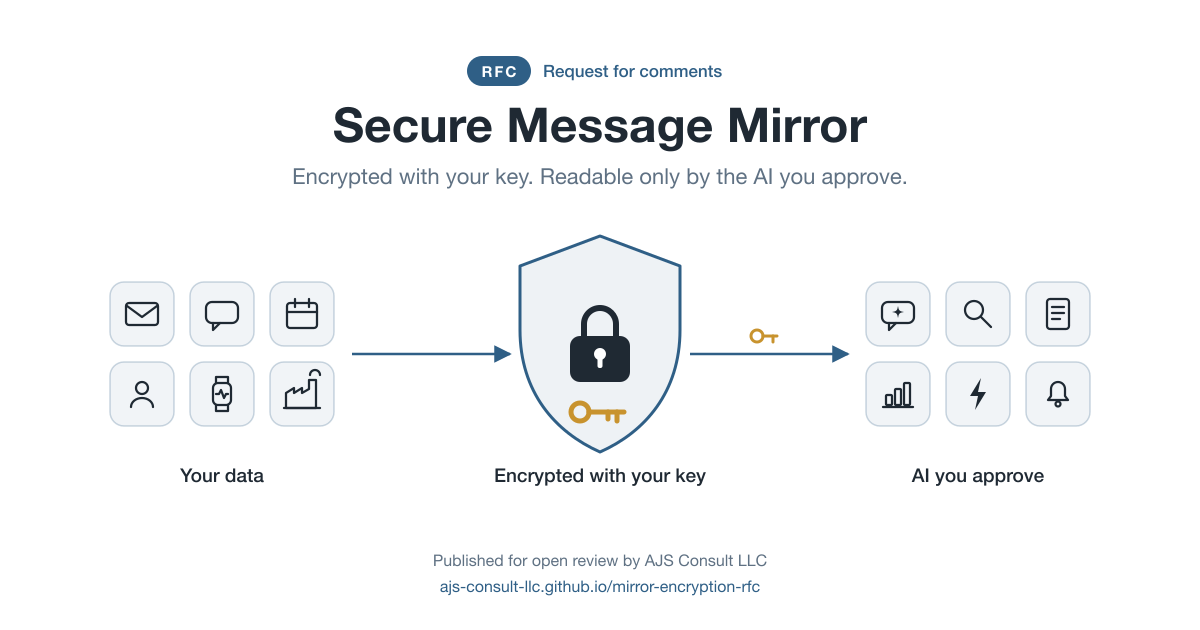
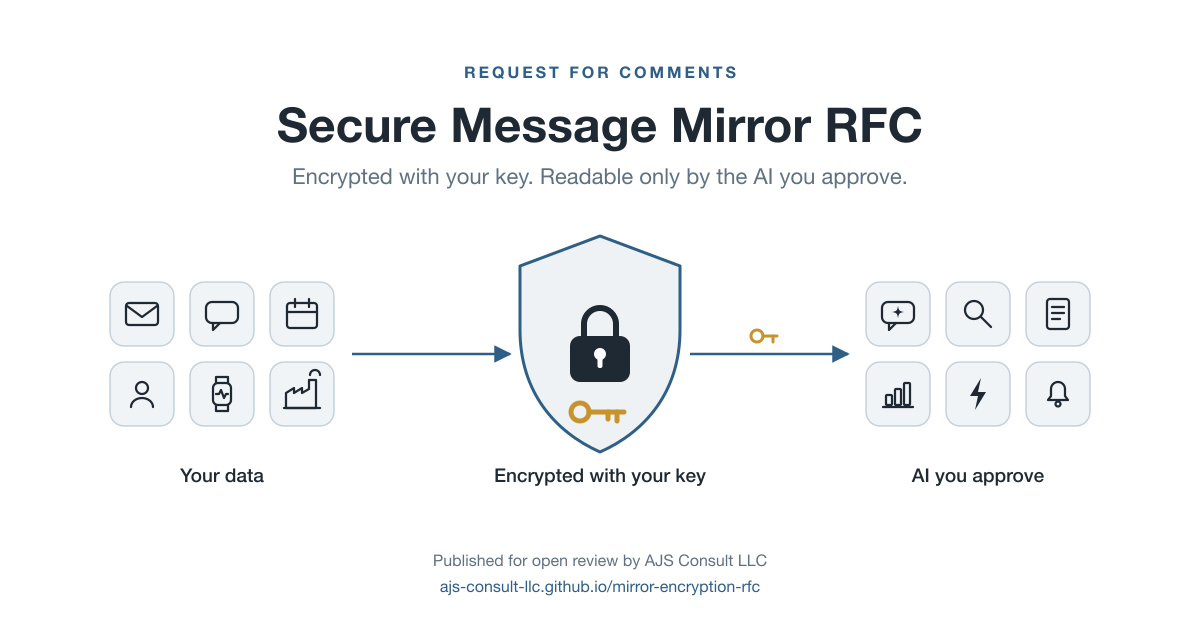
RFC in the titles; the link preview is the white image
The graphic's title is 'Secure Message Mirror RFC' and the form's is 'Mirror
Encryption: Security Architecture (RFC)'. The landing image is the white version,
marked .preview-image, because Quarto sends a page's first image as its preview.

Changed region(s): [[0.2158, 0.0905, 0.7708, 0.2413]]

diff --git a/assets/social/build.py b/assets/social/build.py
@@ -65,17 +65,15 @@ def grid(x0: int, rows: list[list[str]]) -> str:
 def svg() -> str:
     left_x, right_x = 110, 1200 - 110 - (3 * TILE + 2 * GAP)
     left_mid, right_mid = left_x + (3 * TILE + 2 * GAP) // 2, right_x + (3 * TILE + 2 * GAP) // 2
-    return f'''<svg xmlns="http://www.w3.org/2000/svg" width="1200" height="630" viewBox="0 0 1200 630" role="img" aria-label="Secure Message Mirror, a request for comments: your data, encrypted with your key, readable only by the AI you approve">
+    return f'''<svg xmlns="http://www.w3.org/2000/svg" width="1200" height="630" viewBox="0 0 1200 630" role="img" aria-label="Secure Message Mirror RFC, a request for comments: your data, encrypted with your key, readable only by the AI you approve">
   <defs>
     <marker id="arrow" viewBox="0 0 10 10" refX="9" refY="5" markerWidth="7" markerHeight="7" orient="auto">
       <path d="M0 0L10 5L0 10z" fill="{ACCENT}"/>
     </marker>
   </defs>
   <g font-family="{FONT}">
-    <rect x="467" y="56" width="64" height="30" rx="15" fill="{ACCENT}"/>
-    <text x="499" y="77" text-anchor="middle" font-size="15" font-weight="700" letter-spacing="2" fill="#ffffff">RFC</text>
-    <text x="543" y="77" font-size="17" font-weight="600" fill="{ACCENT}">Request for comments</text>
-    <text x="600" y="142" text-anchor="middle" font-size="48" font-weight="700" fill="{INK}">Secure Message Mirror</text>
+    <text x="600" y="78" text-anchor="middle" font-size="16" font-weight="700" letter-spacing="3" fill="{ACCENT}">REQUEST FOR COMMENTS</text>
+    <text x="600" y="142" text-anchor="middle" font-size="48" font-weight="700" fill="{INK}">Secure Message Mirror RFC</text>
     <text x="600" y="184" text-anchor="middle" font-size="22" fill="{MUTED}">Encrypted with your key. Readable only by the AI you approve.</text>
 
     {grid(left_x, LEFT)}

diff --git a/tools/site_pages.py b/tools/site_pages.py
@@ -60,7 +60,10 @@ def landing(s: dict, submission_page: str | None) -> str:
     return "\n".join([
         LANDING_START,
         "",
-        "![Secure Message Mirror: your messages, encrypted under your key, readable only by the readers you approve](assets/social/secure-message-mirror.png)",
+        # The white version, marked as the page's link preview: Quarto would otherwise send the first
+        # image on the page, and a transparent preview looks broken on dark-mode feeds.
+        "![Secure Message Mirror RFC: your data, encrypted with your key, readable only by the AI you approve]"
+        "(assets/social/secure-message-mirror-social.png){.preview-image}",
         "",
         "::: {.callout-note appearance=\"simple\"}",
         f"**Request for comments. Round {s['round']} is open until {s['closes']}.**",

diff --git a/tools/tally_form.py b/tools/tally_form.py
@@ -20,7 +20,7 @@ from pathlib import Path
 from announce import TALLY, Config, call, secret
 
 NAME = "Mirror Encryption RFC: review updates"  # the form's name inside Tally
-DOC_TITLE = "Mirror Encryption: Security Architecture"
+DOC_TITLE = "Mirror Encryption: Security Architecture (RFC)"
 # The graphic, from a commit in the public repository: pinned, so the link cannot break.
 IMAGE_URL = ("https://raw.githubusercontent.com/ajs-consult-llc/mirror-encryption-rfc/"
              "db85aa6057fbaa3e9b6fd6c4bfb764522305a604/assets/social/secure-message-mirror-banner.png")

diff --git a/README.md b/README.md
@@ -1,6 +1,6 @@
 # Mirror Encryption: Security Architecture
 
-![Secure Message Mirror](assets/social/secure-message-mirror.png)
+![Secure Message Mirror RFC](assets/social/secure-message-mirror.png)
 
 A request for comments on encrypting private data mirrors so that only the devices and AIs a
 user approves can read them. Owned by AJS Consult LLC; edited by Aaron Soellinger; licensed
